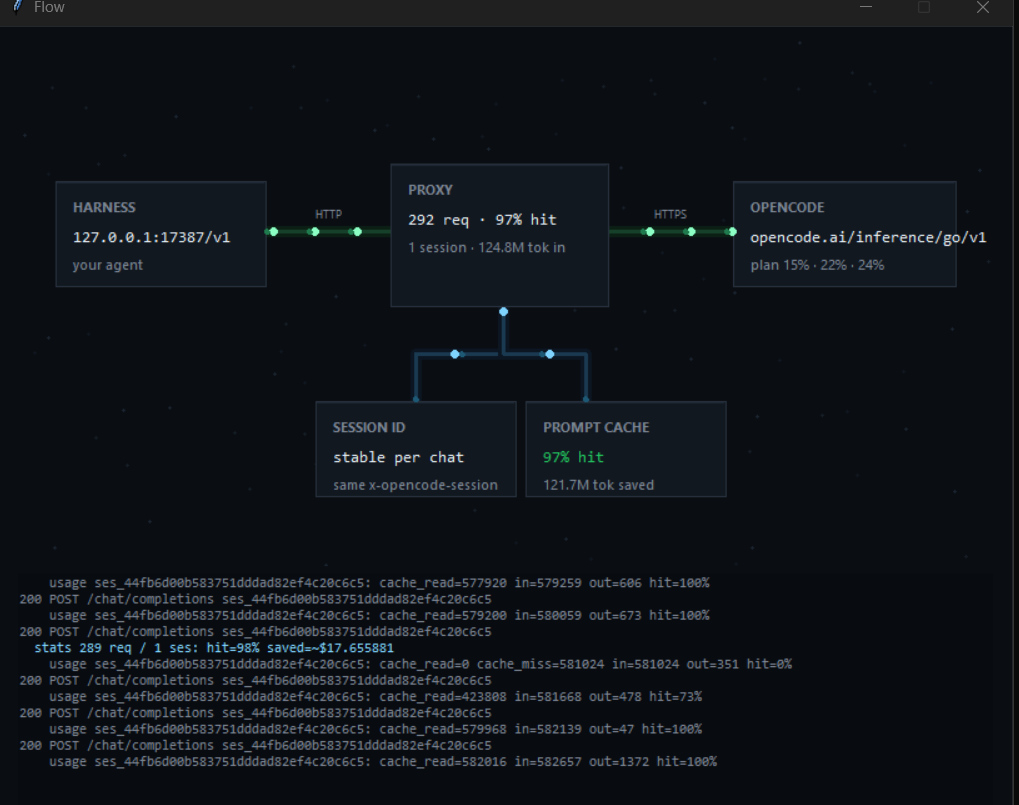
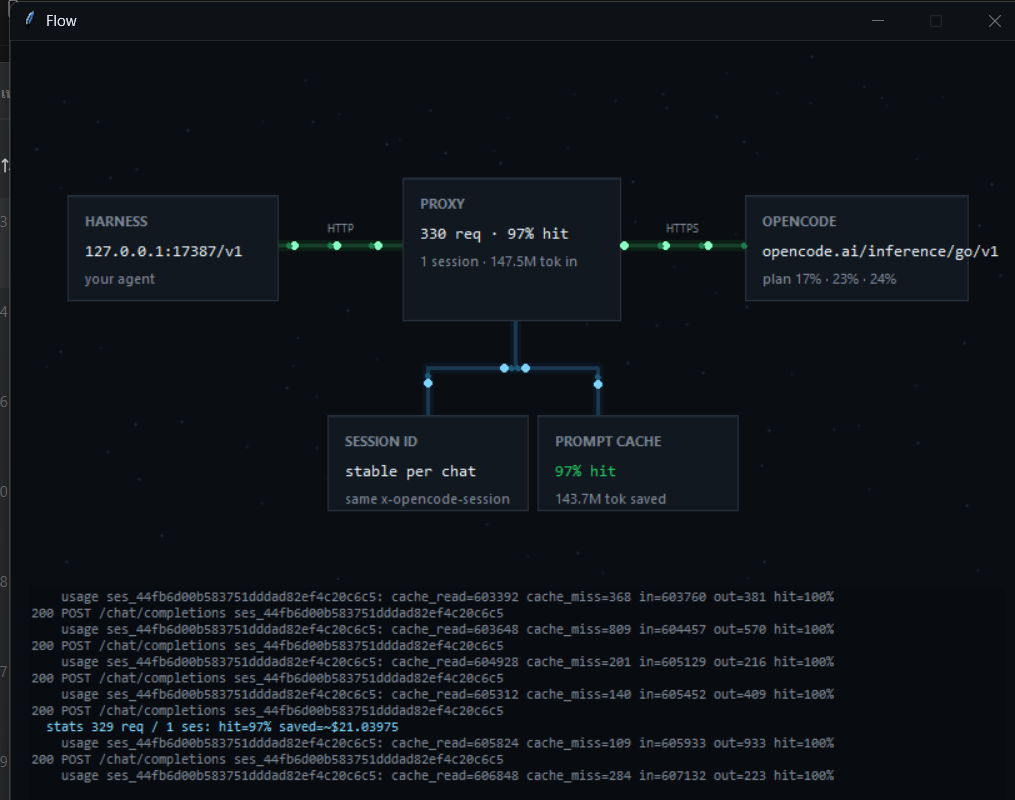
Refresh every screenshot, including the GIF
All five images now come from the build with matching caption colours, so the
README shows one consistent look instead of a mix of grey and near-black
captions.

diff --git a/README.md b/README.md
@@ -238,7 +238,7 @@ the history window follow it live. The default is 100 %, on purpose: at 93 %,
 numbers get hard to read. Pick a lower value in Settings if you want the glass
 look and can live with that.
 
-![Stats overlay: 96% cache hit, $8.41 saved over 154 requests, the 5-hour,
+![Stats overlay: 97% cache hit, $21.04 saved over 329 requests, the 5-hour,
 weekly and monthly plan meters, and the note about responses without usage
 data](docs/stats-overlay.png)
 
